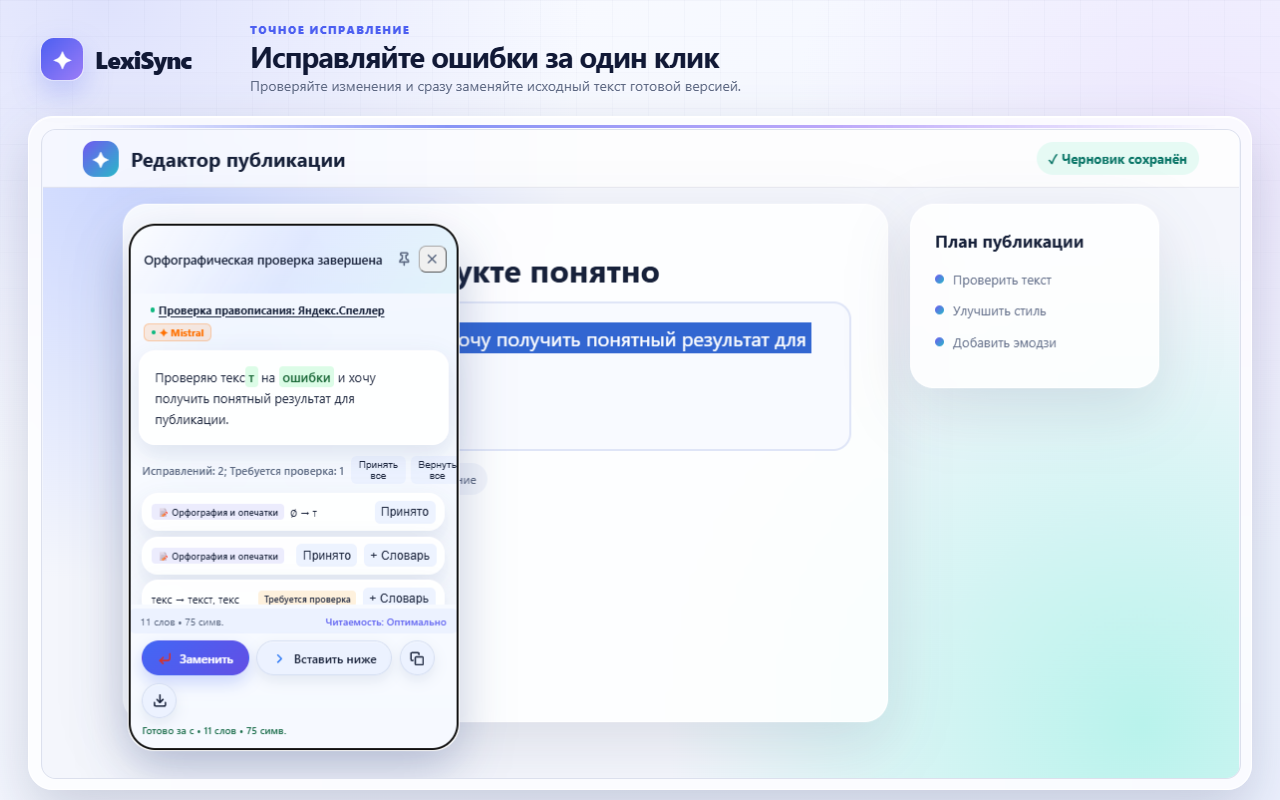
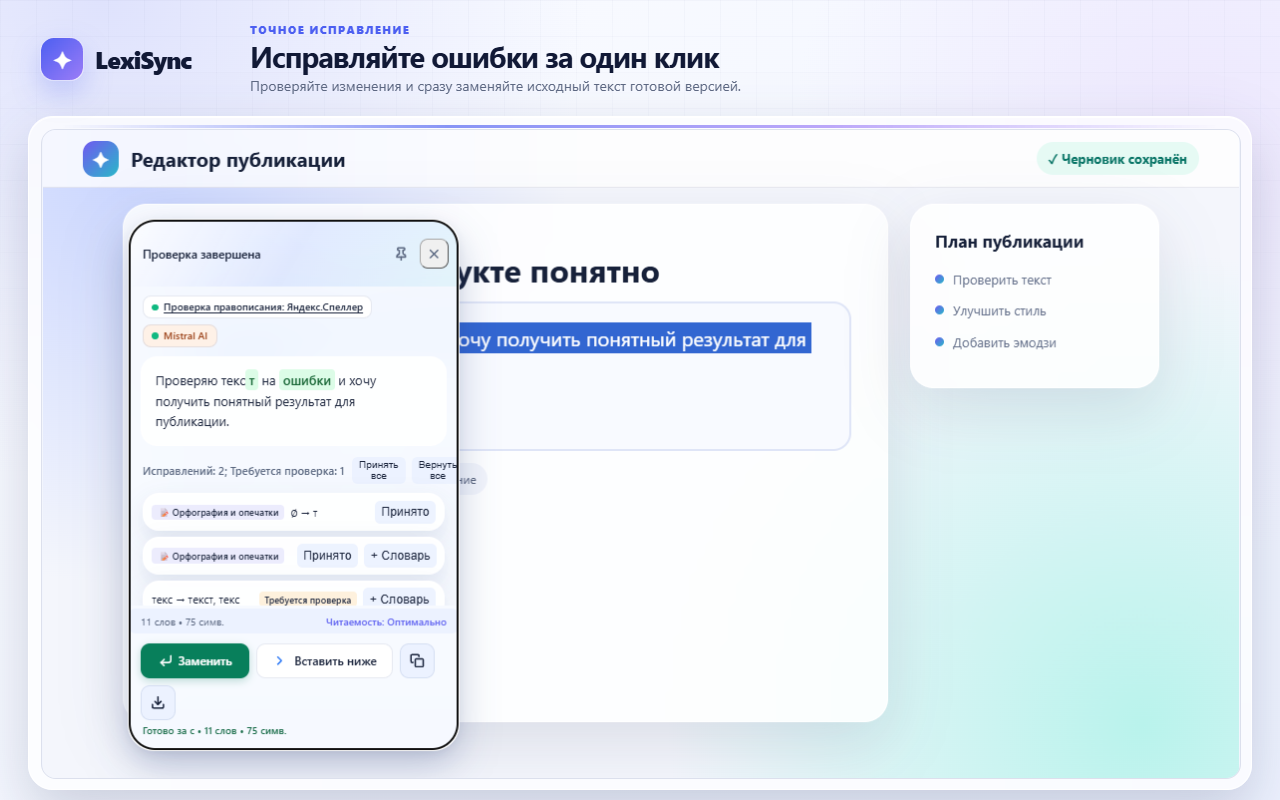
Обновлена панель результатов и проверена адаптивность

diff --git a/src/content-ui-style.ts b/src/content-ui-style.ts
@@ -1051,6 +1051,230 @@ export const POPUP_STYLE_TEXT = `
                 color: var(--accent, #6366f1);
             }
 
+            /* Иерархия панели результата: текст, источник, основное действие, затем вспомогательные. */
+            #lexisync-extension-ui[data-surface="result"] {
+                min-width: min(280px, calc(100vw - 16px));
+                max-width: calc(100vw - 16px);
+                box-shadow: 0 16px 40px var(--shadow-color), 0 3px 9px rgba(23, 32, 62, .08);
+            }
+            #lexisync-extension-ui[data-surface="result"] .lexisync-header {
+                gap: 8px;
+                padding: 10px 14px !important;
+            }
+            #lexisync-extension-ui[data-surface="result"] .lexisync-header-title {
+                min-width: 0;
+                font-size: 13px;
+                line-height: 1.35;
+            }
+            #lexisync-extension-ui[data-surface="result"] .lexisync-header-control {
+                flex: 0 0 auto;
+                gap: 2px;
+            }
+            #lexisync-extension-ui[data-surface="result"] .lexisync-header-control button {
+                display: inline-flex;
+                align-items: center;
+                justify-content: center;
+                min-width: 32px;
+                min-height: 32px;
+                border-radius: 9px !important;
+            }
+            #lexisync-extension-ui[data-surface="result"] .lexisync-header-control button:focus-visible,
+            #lexisync-extension-ui[data-surface="result"] .lexisync-tool-chip:focus-visible,
+            #lexisync-extension-ui[data-surface="result"] .lexisync-provider-yandex-speller:focus-visible {
+                outline: 2px solid var(--primary) !important;
+                outline-offset: 2px;
+            }
+            #lexisync-extension-ui[data-surface="result"] .lexisync-result-source {
+                gap: 6px;
+                padding: 10px 14px 0;
+            }
+            #lexisync-extension-ui[data-surface="result"] .lexisync-provider-badge {
+                min-height: 24px;
+                max-width: 100%;
+                gap: 6px;
+                margin: 0;
+                padding: 4px 9px;
+                border: 1px solid var(--inner-border);
+                border-radius: 9px;
+                background: var(--bg-elevated);
+                color: var(--text-secondary);
+                font-size: 11px;
+                font-weight: 600;
+                line-height: 1.35;
+                box-sizing: border-box;
+            }
+            #lexisync-extension-ui[data-surface="result"] .lexisync-provider-dot {
+                width: 7px;
+                height: 7px;
+            }
+            #lexisync-extension-ui[data-surface="result"] .lexisync-provider-yandex-speller {
+                color: var(--text-primary) !important;
+                text-decoration-thickness: 1px;
+            }
+            #lexisync-extension-ui[data-surface="result"] .lexisync-provider-cloudflare {
+                color: #9a4b08;
+                background: color-mix(in srgb, #f59e0b 10%, var(--bg-elevated));
+            }
+            #lexisync-extension-ui[data-surface="result"] .lexisync-provider-mistral {
+                color: #9b4016;
+                background: color-mix(in srgb, #f97316 10%, var(--bg-elevated));
+            }
+            #lexisync-extension-ui[data-theme="dark"][data-surface="result"] .lexisync-provider-cloudflare {
+                color: #ffd29a;
+            }
+            #lexisync-extension-ui[data-theme="dark"][data-surface="result"] .lexisync-provider-mistral {
+                color: #ffc49f;
+            }
+            #lexisync-extension-ui[data-surface="result"] .lexisync-content-pane {
+                margin: 10px 12px 12px;
+                padding: 14px 15px !important;
+                line-height: 1.6 !important;
+                box-shadow: none;
+            }
+            #lexisync-extension-ui[data-surface="result"] .lexisync-result-tools {
+                gap: 6px;
+                padding: 0 12px 12px;
+            }
+            #lexisync-extension-ui[data-surface="result"] .lexisync-quick-tabs {
+                gap: 5px;
+                padding: 8px 12px;
+                border-bottom: 1px solid var(--inner-border);
+            }
+            #lexisync-extension-ui[data-surface="result"] .lexisync-quick-tab {
+                min-height: 28px;
+                padding: 5px 9px;
+                border: 1px solid transparent;
+                border-radius: 9px;
+                background: transparent;
+                color: var(--text-secondary);
+                font-size: 11px;
+                font-weight: 600;
+            }
+            #lexisync-extension-ui[data-surface="result"] .lexisync-quick-tab--active {
+                background: var(--primary-soft);
+                color: var(--primary-strong);
+                border-color: color-mix(in srgb, var(--primary) 24%, transparent);
+            }
+            #lexisync-extension-ui[data-surface="result"] .lexisync-quick-tab:hover {
+                color: var(--text-primary);
+                background: var(--bg-elevated);
+            }
+            #lexisync-extension-ui[data-surface="result"] .lexisync-quick-tab:focus-visible {
+                outline: 2px solid var(--primary);
+                outline-offset: 2px;
+            }
+            #lexisync-extension-ui[data-surface="result"] .lexisync-tool-chip {
+                min-height: 30px;
+                padding: 6px 10px;
+                border-radius: 9px !important;
+                color: var(--text-primary);
+                background: var(--bg-elevated);
+                font-size: 11px;
+                box-shadow: none !important;
+            }
+            #lexisync-extension-ui[data-surface="result"] .lexisync-tool-chip:hover {
+                color: var(--primary-strong);
+                border-color: var(--primary);
+                background: var(--primary-soft);
+            }
+            #lexisync-extension-ui[data-surface="result"] .lexisync-actions {
+                gap: 8px;
+                padding: 6px 12px 12px !important;
+            }
+            #lexisync-extension-ui[data-surface="result"] .lexisync-result-button {
+                min-height: 38px;
+                border-radius: 10px !important;
+                box-shadow: none !important;
+            }
+            #lexisync-extension-ui[data-surface="result"] .lexisync-result-button--accept {
+                color: #fff !important;
+                background: #087f5b !important;
+                border: 1px solid transparent !important;
+                box-shadow: 0 3px 9px rgba(8, 127, 91, .24) !important;
+            }
+            #lexisync-extension-ui[data-surface="result"] .lexisync-result-button--accept:hover {
+                background: #076b4d !important;
+            }
+            #lexisync-extension-ui[data-surface="result"] .lexisync-result-button--accept:active {
+                background: #065b42 !important;
+                transform: translateY(1px) !important;
+            }
+            #lexisync-extension-ui[data-surface="result"] .lexisync-result-button--accept:focus-visible {
+                outline: 3px solid rgba(8, 127, 91, .32) !important;
+            }
+            #lexisync-extension-ui[data-surface="result"] .lexisync-result-button--accept.lexisync-result-button--success:disabled {
+                opacity: 1 !important;
+            }
+            #lexisync-extension-ui[data-surface="result"] .lexisync-result-button--secondary,
+            #lexisync-extension-ui[data-surface="result"] .lexisync-action-check-ai {
+                color: var(--text-primary) !important;
+                background: var(--bg-elevated) !important;
+                border: 1px solid var(--inner-border) !important;
+            }
+            #lexisync-extension-ui[data-surface="result"] .lexisync-result-button--secondary:hover,
+            #lexisync-extension-ui[data-surface="result"] .lexisync-action-check-ai:hover {
+                background: var(--primary-soft) !important;
+                border-color: var(--primary) !important;
+            }
+            #lexisync-extension-ui[data-surface="result"] .lexisync-result-button--dismiss {
+                color: var(--text-secondary) !important;
+                background: transparent !important;
+                border: 1px solid transparent !important;
+            }
+            #lexisync-extension-ui[data-surface="result"] .lexisync-result-button--dismiss:hover {
+                color: var(--text-primary) !important;
+                background: var(--bg-secondary) !important;
+            }
+            #lexisync-extension-ui[data-surface="result"] .lexisync-undo-button {
+                flex-basis: 100%;
+                justify-content: flex-start !important;
+                min-height: 30px;
+                width: max-content;
+                color: var(--text-secondary) !important;
+                background: transparent !important;
+                border: 0 !important;
+                box-shadow: none !important;
+            }
+            #lexisync-extension-ui[data-surface="result"] .lexisync-undo-button:hover {
+                color: var(--text-primary) !important;
+                background: var(--bg-secondary) !important;
+            }
+            #lexisync-extension-ui[data-compact-result="true"][data-surface="result"] .lexisync-result-button.lexisync-result-button--secondary,
+            #lexisync-extension-ui[data-compact-result="true"][data-surface="result"] .lexisync-result-button.lexisync-action-check-ai {
+                color: var(--text-primary) !important;
+                background: var(--bg-elevated) !important;
+                border: 1px solid var(--inner-border) !important;
+            }
+            #lexisync-extension-ui[data-compact-result="true"][data-surface="result"] .lexisync-result-button.lexisync-result-button--dismiss,
+            #lexisync-extension-ui[data-compact-result="true"][data-surface="result"] .lexisync-result-button.lexisync-undo-button {
+                color: var(--text-secondary) !important;
+                background: transparent !important;
+                border: 1px solid transparent !important;
+                box-shadow: none !important;
+            }
+            #lexisync-extension-ui[data-surface="result"] .lexisync-action-status[data-error="true"] {
+                margin-top: 0;
+                padding: 8px 10px;
+                border-radius: 9px;
+                background: var(--warning-bg);
+                border: 1px solid var(--warning-border);
+                color: var(--warning-text);
+            }
+            @media (max-width: 375px) {
+                #lexisync-extension-ui[data-surface="result"] .lexisync-actions {
+                    gap: 6px;
+                }
+                #lexisync-extension-ui[data-surface="result"] .lexisync-result-button {
+                    padding: 0 10px !important;
+                }
+            }
+            @media (max-width: 300px) {
+                #lexisync-extension-ui[data-surface="result"] .lexisync-quick-tabs {
+                    flex-wrap: wrap;
+                    overflow: visible;
+                }
+            }
+
             @media (prefers-reduced-motion: reduce) {
                 #lexisync-extension-ui { animation-duration: 0.01ms; }
                 .lexisync-loader, .lexisync-hourglass, .lexisync-skeleton-line::after { animation: none; }

diff --git a/src/content-result-actions.ts b/src/content-result-actions.ts
@@ -22,6 +22,7 @@ interface ResultActionsOptions {
     isCompact?: () => boolean;
     onDismiss?: () => void;
     canCheckAi?: boolean;
+    checkAiPending?: boolean;
     onCheckAi?: () => Promise<void> | void;
 }
 
@@ -52,7 +53,14 @@ export function renderPrimaryResultActions(options: ResultActionsOptions): void 
             'Отправить текст в AI для глубокого анализа стиля, пунктуации и сложных ошибок',
         );
         checkAiButton.setAttribute('aria-label', t('checkWithAi', 'Проверить через AI'));
-        appendIconAndText(checkAiButton, ICONS.sparkles, t('checkWithAi', 'Проверить через AI'));
+        appendIconAndText(
+            checkAiButton,
+            ICONS.sparkles,
+            options.checkAiPending
+                ? t('checkingWithAi', 'Проверяем через AI…')
+                : t('checkWithAi', 'Проверить через AI'),
+        );
+        checkAiButton.disabled = options.checkAiPending === true;
         checkAiButton.onpointerdown = (e) => e.stopPropagation();
         checkAiButton.onmousedown = (e) => e.stopPropagation();
         checkAiButton.onclick = async (event) => {
@@ -73,9 +81,7 @@ export function renderPrimaryResultActions(options: ResultActionsOptions): void 
     if (hasReplaceTarget) {
         const replaceButton = document.createElement('button');
         replaceButton.type = 'button';
-        replaceButton.className = isCompact
-            ? `${btnClass} lexisync-result-button lexisync-result-button--primary lexisync-result-button--accept`
-            : `${btnClass} lexisync-result-button lexisync-result-button--primary`;
+        replaceButton.className = `${btnClass} lexisync-result-button lexisync-result-button--primary lexisync-result-button--accept`;
         const replaceText = t('replace', 'Заменить');
         appendIconAndText(replaceButton, replaceIcon, replaceText);
         replaceButton.setAttribute('aria-label', replaceText);
@@ -126,7 +132,7 @@ export function renderPrimaryResultActions(options: ResultActionsOptions): void 
 
         const appendButton = document.createElement('button');
         appendButton.type = 'button';
-        appendButton.className = `${btnClass} lexisync-result-button`;
+        appendButton.className = `${btnClass} lexisync-result-button lexisync-result-button--secondary`;
         appendButton.title = t('appendBelowTextHint', 'Вставить результат с новой строки ниже выделенного фрагмента');
         appendIconAndText(appendButton, ICONS.continueText, t('appendBelowText', 'Вставить ниже'));
         appendButton.disabled = !hasValidReplaceTarget;

diff --git a/src/content-request-panel.ts b/src/content-request-panel.ts
@@ -123,7 +123,7 @@ export function executeRequest(
     let headerLabel = '';
     let headerIcon = '';
     let headerEmoji = '';
-    if (mode === 'spellcheck') headerLabel = t('spellcheckDone', 'Орфографическая проверка завершена');
+    if (mode === 'spellcheck') headerLabel = t('checkCompleteShort', 'Проверка завершена');
     else if (mode === 'style') {
         headerIcon = ICONS.style;
         headerLabel = t('styleChanged', 'Стиль изменён');
@@ -277,14 +277,14 @@ export function executeRequest(
             text.textContent = t('yandexSpellerAttribution', 'Проверка правописания: Яндекс.Спеллер');
             badge.title = t('yandexSpellerAttribution', 'Проверка правописания: Яндекс.Спеллер');
         } else if (provider === 'cloudflare') {
-            text.textContent = '☁ Cloudflare';
+            text.textContent = 'Cloudflare AI';
             badge.title = spellerChecked
                 ? 'Яндекс.Спеллер + Cloudflare Workers AI'
                 : isFallback
                   ? 'Cloudflare Workers AI (резервный)'
                   : 'Cloudflare Workers AI';
         } else {
-            text.textContent = '✦ Mistral';
+            text.textContent = 'Mistral AI';
             badge.title = spellerChecked
                 ? 'Яндекс.Спеллер + Mistral AI'
                 : isFallback
@@ -345,6 +345,7 @@ export function executeRequest(
             tab.type = 'button';
             tab.className = `lexisync-quick-tab${tabConf.active ? ' lexisync-quick-tab--active' : ''}`;
             tab.textContent = tabConf.label;
+            tab.setAttribute('aria-pressed', String(tabConf.active));
             tab.onclick = (e) => {
                 e.stopPropagation();
                 if (tabConf.active) return;
@@ -1403,8 +1404,8 @@ export function executeRequest(
             setTimeout: (callback, delay) => lifecycle.setTimeout(callback, delay),
             isCompact: () => compactResultMode,
             onDismiss: () => closePopup(),
-            canCheckAi:
-                activeProvider === 'yandex-speller' && mode === 'spellcheck' && !aiCheckPerformed && !checkingAi,
+            canCheckAi: activeProvider === 'yandex-speller' && mode === 'spellcheck' && !aiCheckPerformed,
+            checkAiPending: checkingAi,
             onCheckAi: handleCheckWithAi,
         });
     }
